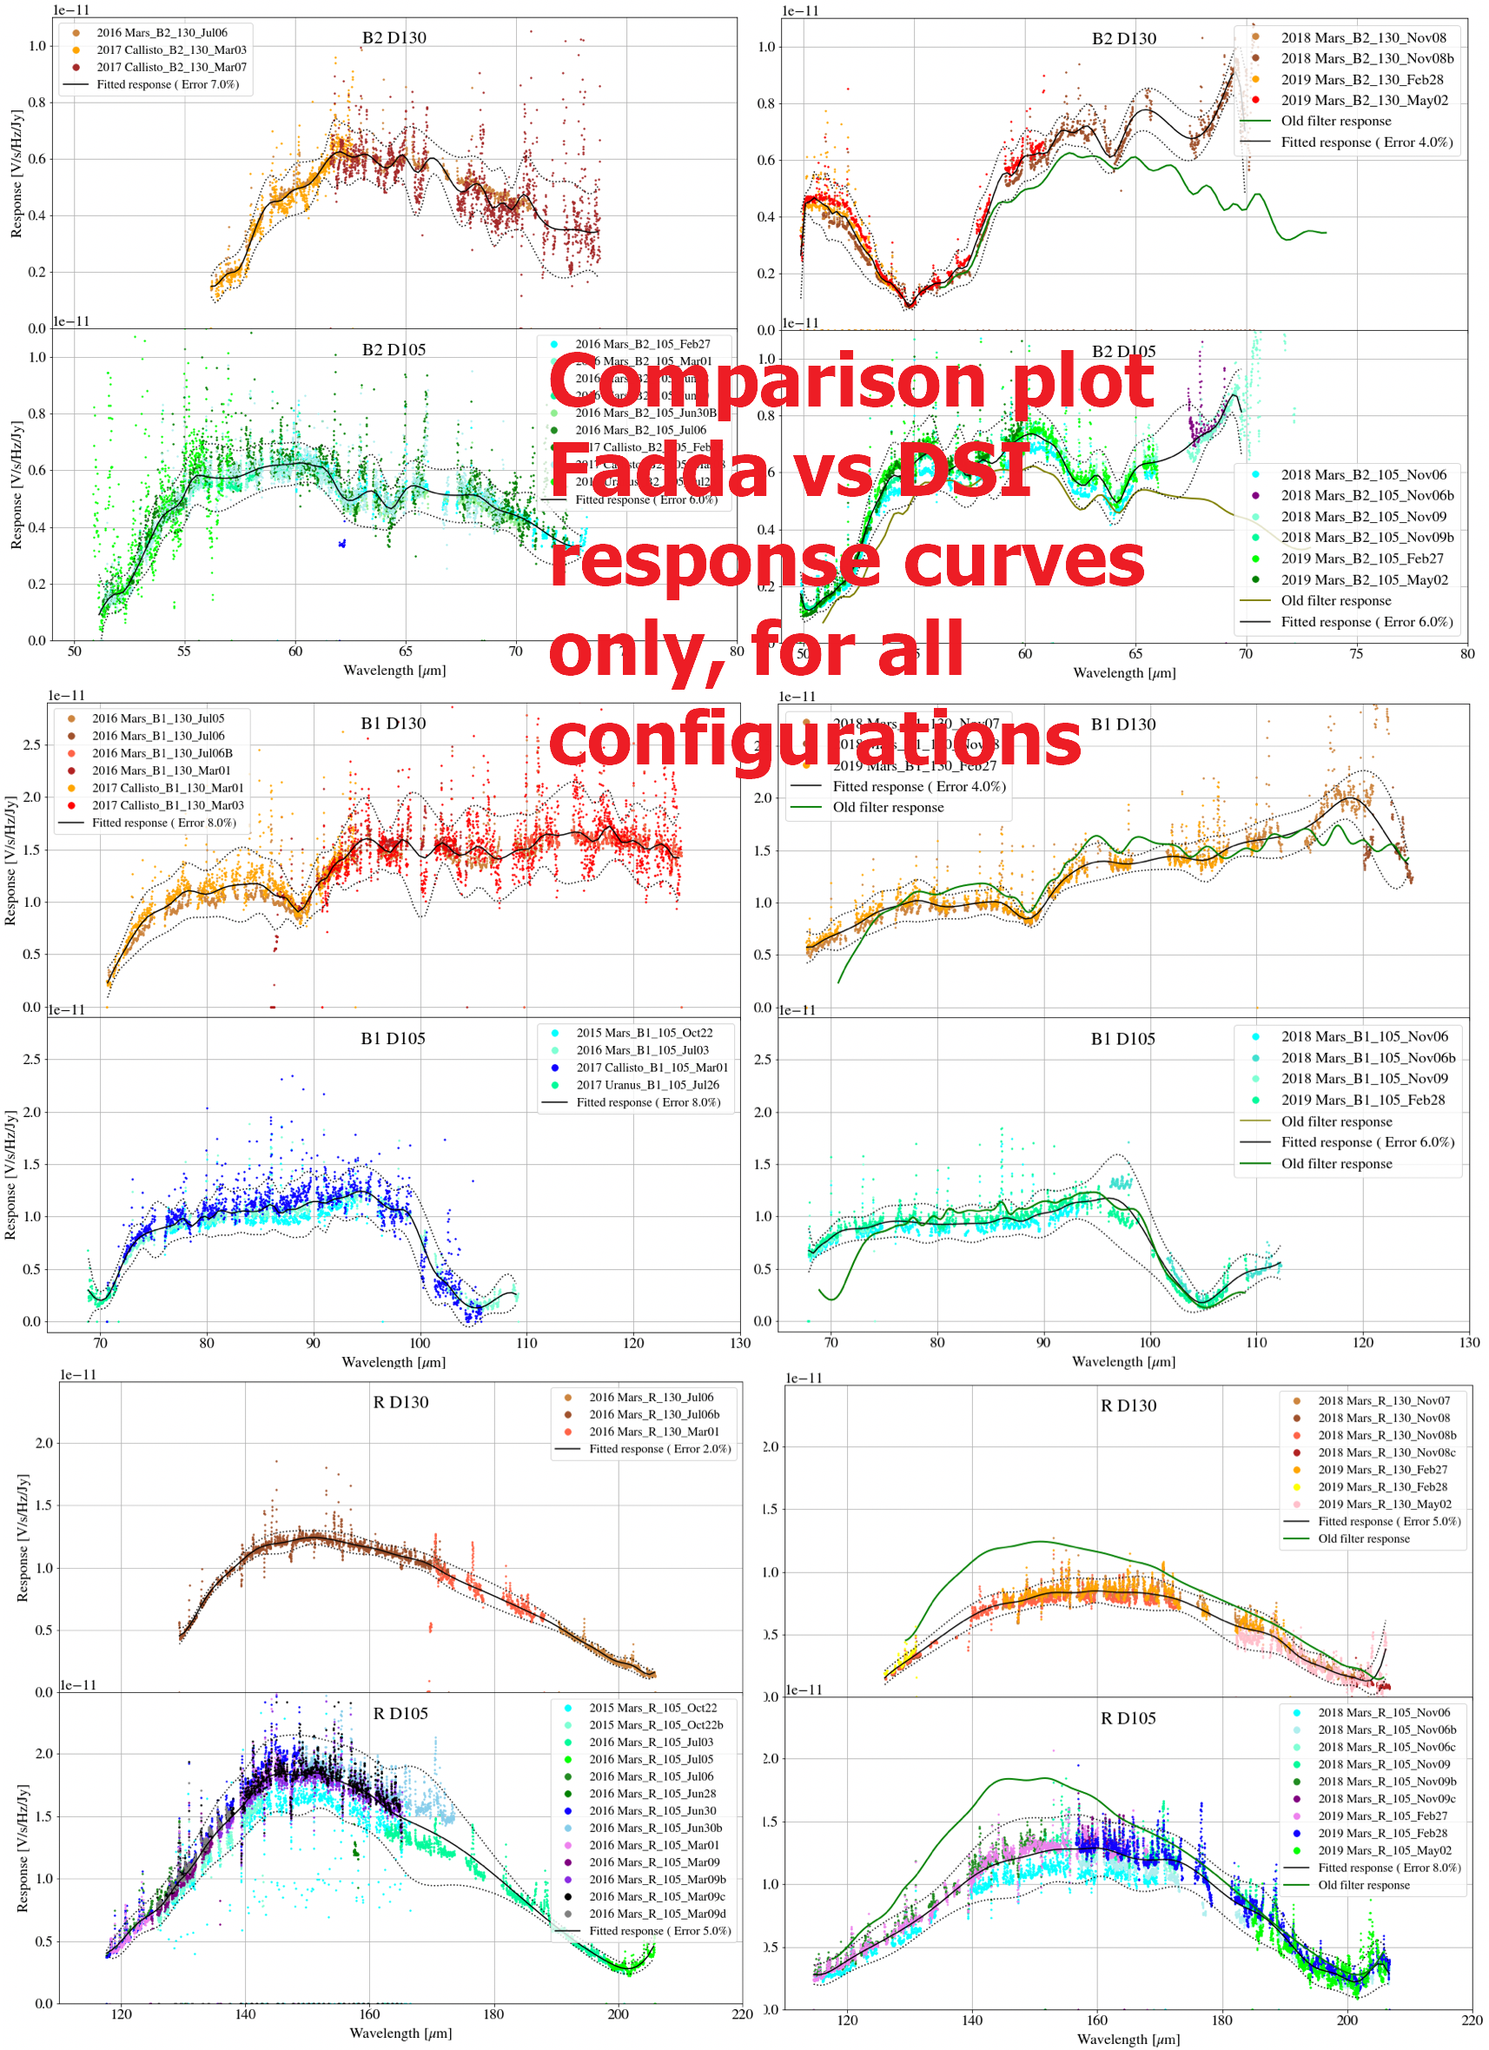
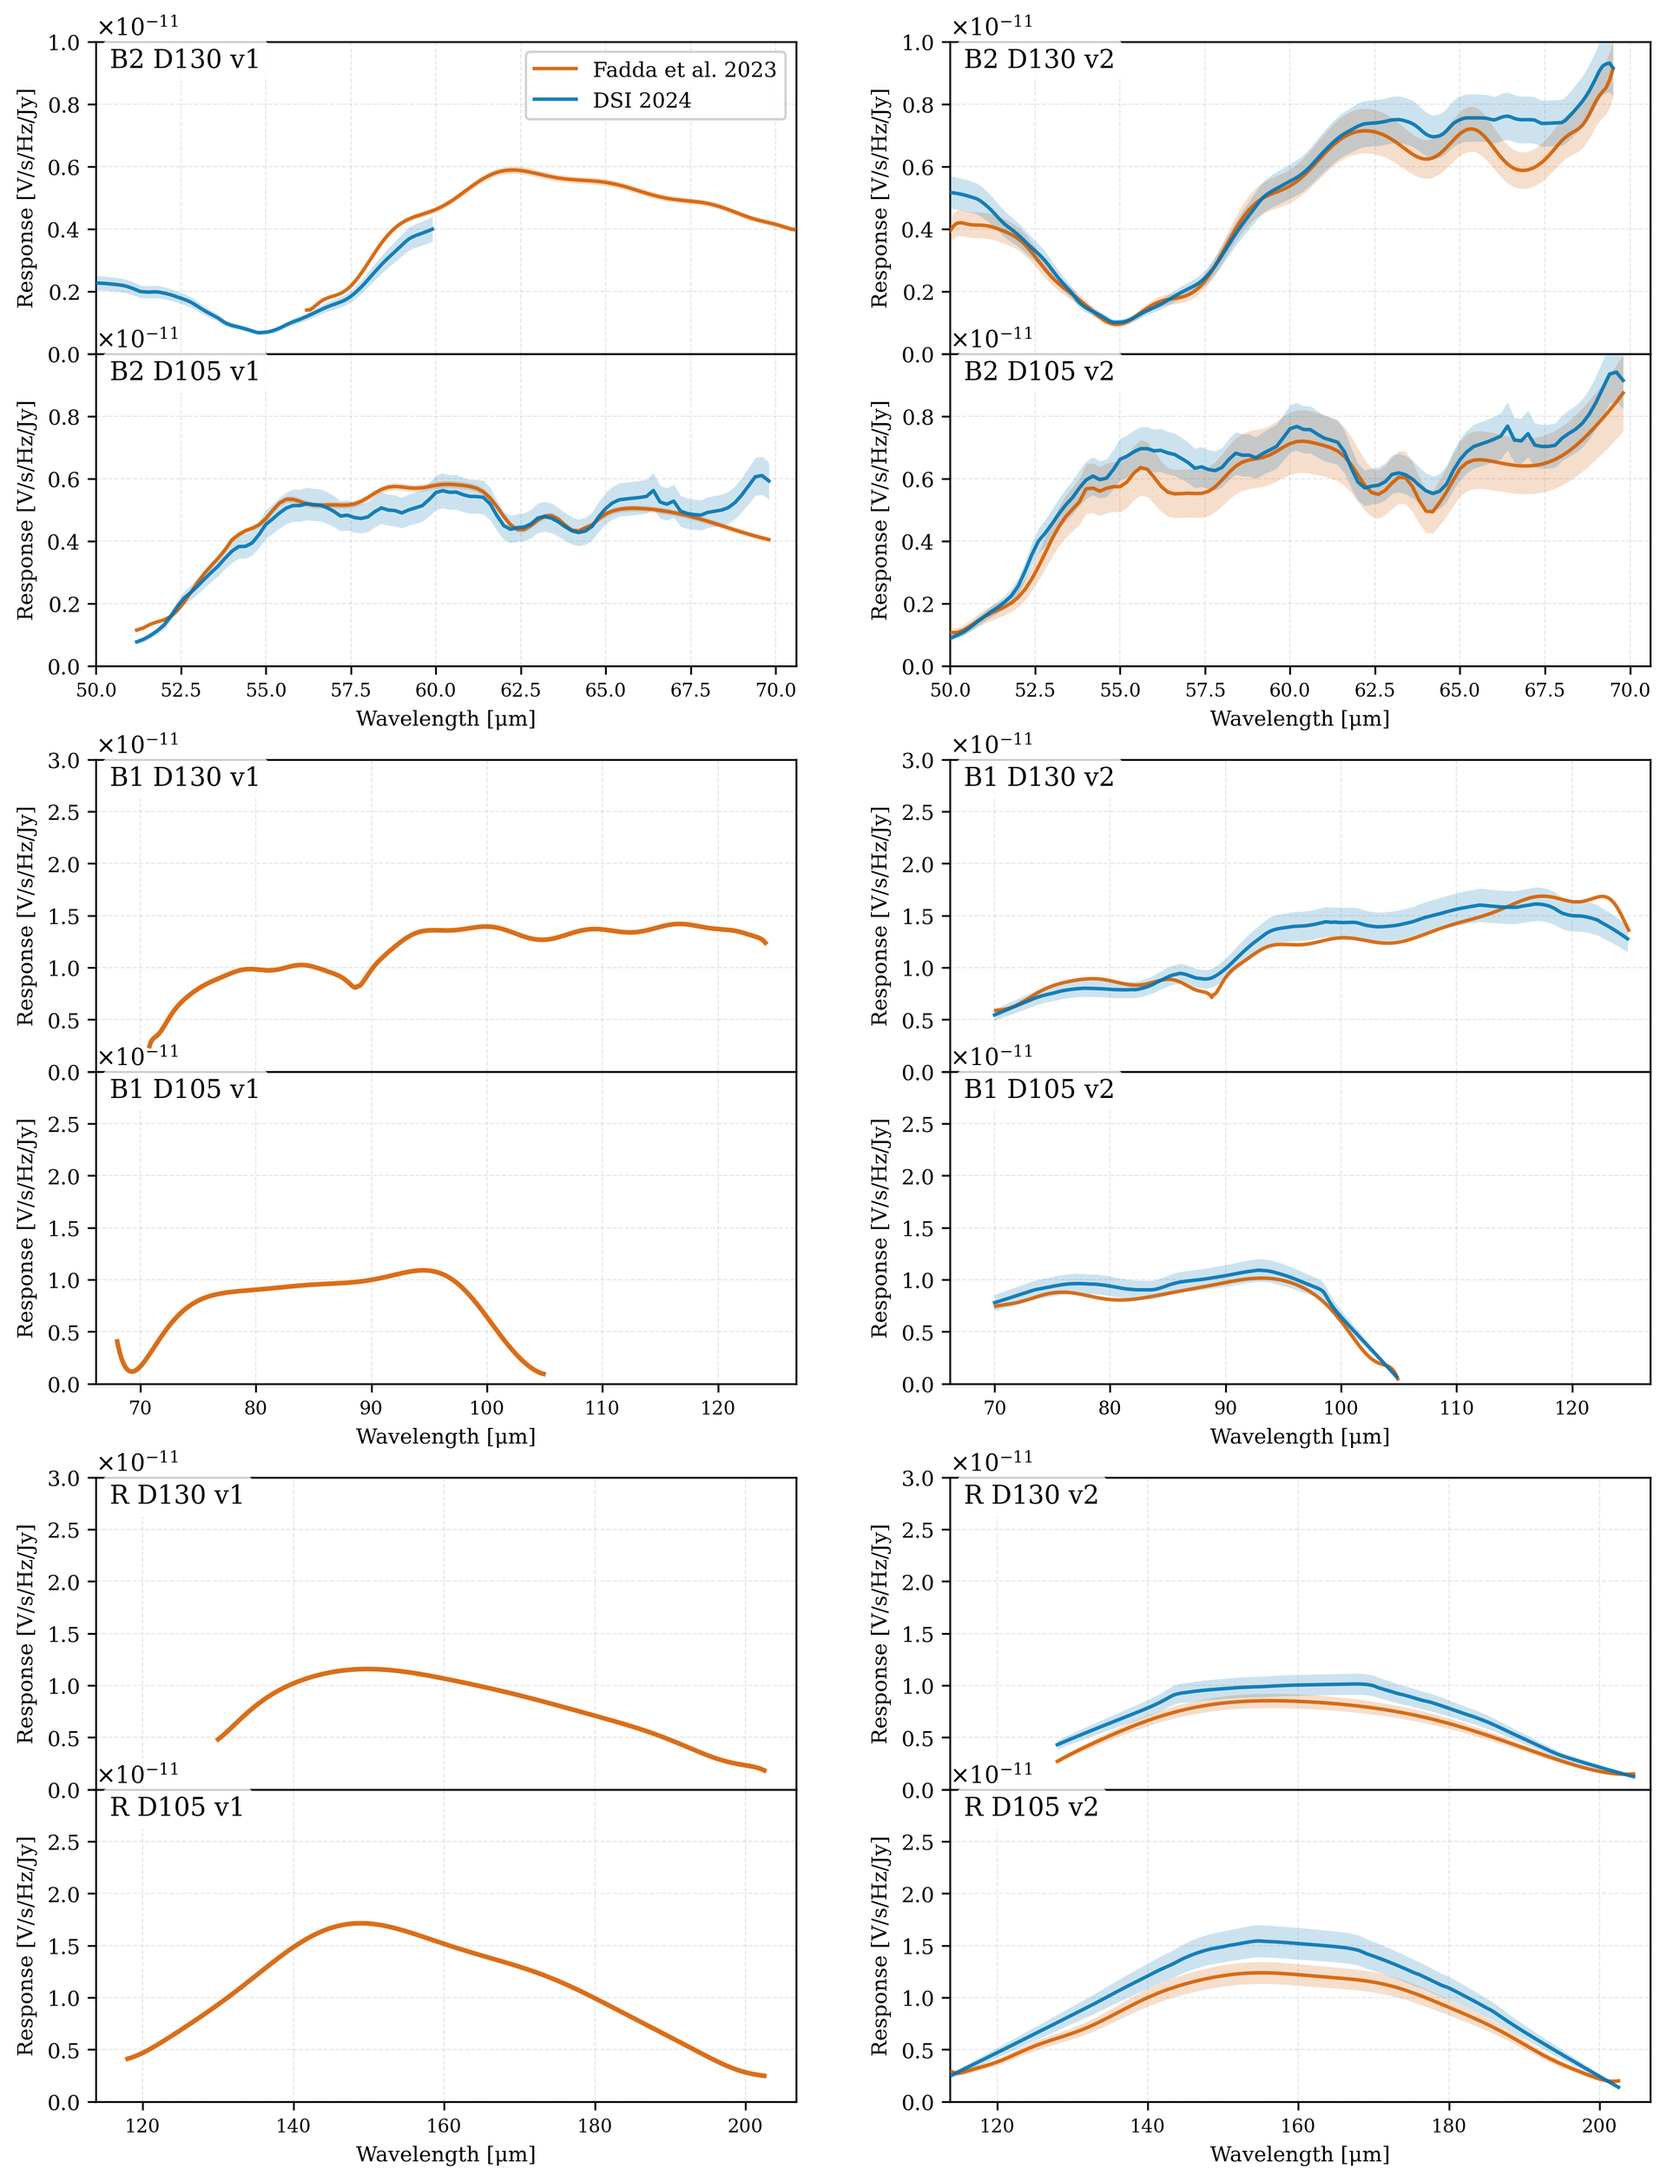
updates to dsi calibration text in manual, added plot for dsi/fadda response curve comparison

diff --git a/docs/manuals/fifils/users/data_description.rst b/docs/manuals/fifils/users/data_description.rst
@@ -818,31 +818,42 @@ view (relevant at low Mars separations) is counteracted. However, this approach
 suffers from the highly undersampled Mars disk, and therefore the 2-dimensional
 Gaussian fit is potentially unreliable.
 
-The 2024 DSI approach instead identifies the centre of Mars
-via the brightest pixel, and sums all flux within a static aperture around that pixel.
-This better captures the true measured flux, albeit without correcting for flux
-lost outside of the FIFI-LS field of view.
+The 2024 DSI approach instead identifies the centre of Mars via the brightest pixel,
+and sums all flux within a static aperture around that pixel. This better captures
+the true measured flux, albeit without correcting for flux lost outside of the
+FIFI-LS field of view. Additionally, flightwise atmospheric calibration factors
+that are applied to the prior calibration have been removed in post-filter change
+response curves. The pre-filter change response curves remain the same as before,
+except those for the B2 filters, which have been scaled from their post-filter change
+counterparts in order to correct for 
 
 In the near future, the SOFIA Data Center (SDC) will release an updated flux
 calibration which will encorporate a more robust image resampling and flux
 extraction method, along with a fully time & wavelength-resolved Mars model.
 For this reason, a comprehensive test of the relative robustnesses of the DSI
 and 2023 responses has not been carried out, however fluxes in data products may
-deviate between versions by up to 15%. The figure below displays the difference
-between the two response versions for all FIFI-LS filter configurations. Manual
-selection of response curves is not supported within the Redux GUI or parameter
-file formats, however users may choose to modify the lookup table in
-*sofia_redux\sofia_redux\instruments\fifi_ls\data\response_files\response_default.txt*,
-pointing to the older response curves if desired. A more detailed investigation
-will be provided in future documentation of the SDC flux calibration.
+deviate between versions by up to 30%. Figure :numref:`fifi_exposure_map` displays
+the difference between the two response versions for all FIFI-LS filter configurations.
+A more detailed investigation will be provided in future documentation of the SDC
+flux calibration.
+
+Manual selection of response curves is supported within the Redux GUI or the
+supplied parameter config file via the *response_file* keyword. Users may view
+the available historical response curves within
+*sofia_redux\\sofia_redux\\instruments\\fifi_ls\\data\\response_files\\*,
+for which the calibration dates are specified in the filenames (note: v1 refers to
+responses for data observed prior to the end of 2017, v2 is for data from 2018 onwards).
+Users may also choose to modify the lookup table *response_default.txt* within the
+above directory, pointing to the older response curves if desired. For reference,
+response curves used in reduction of data products is specified in the FITS header
+keyword ``RSPNFILE``.
 
 .. figure:: images/fifi_fadda_dsi_response_comparison.png
    :alt: Fadda DSI response comparison
    :name: fifi_fadda_dsi_response_comparison
    :height: 800
 
-   PLACEHOLDER IMAGE
-   Comparison of Fadda et al. 2023 and DSI 2024 response curves
+   Comparison of Fadda et al. 2023 (orange) and DSI 2024 (blue) response curves
    for all FIFI-LS filter configurations.
 
 Correct Wave Shift
